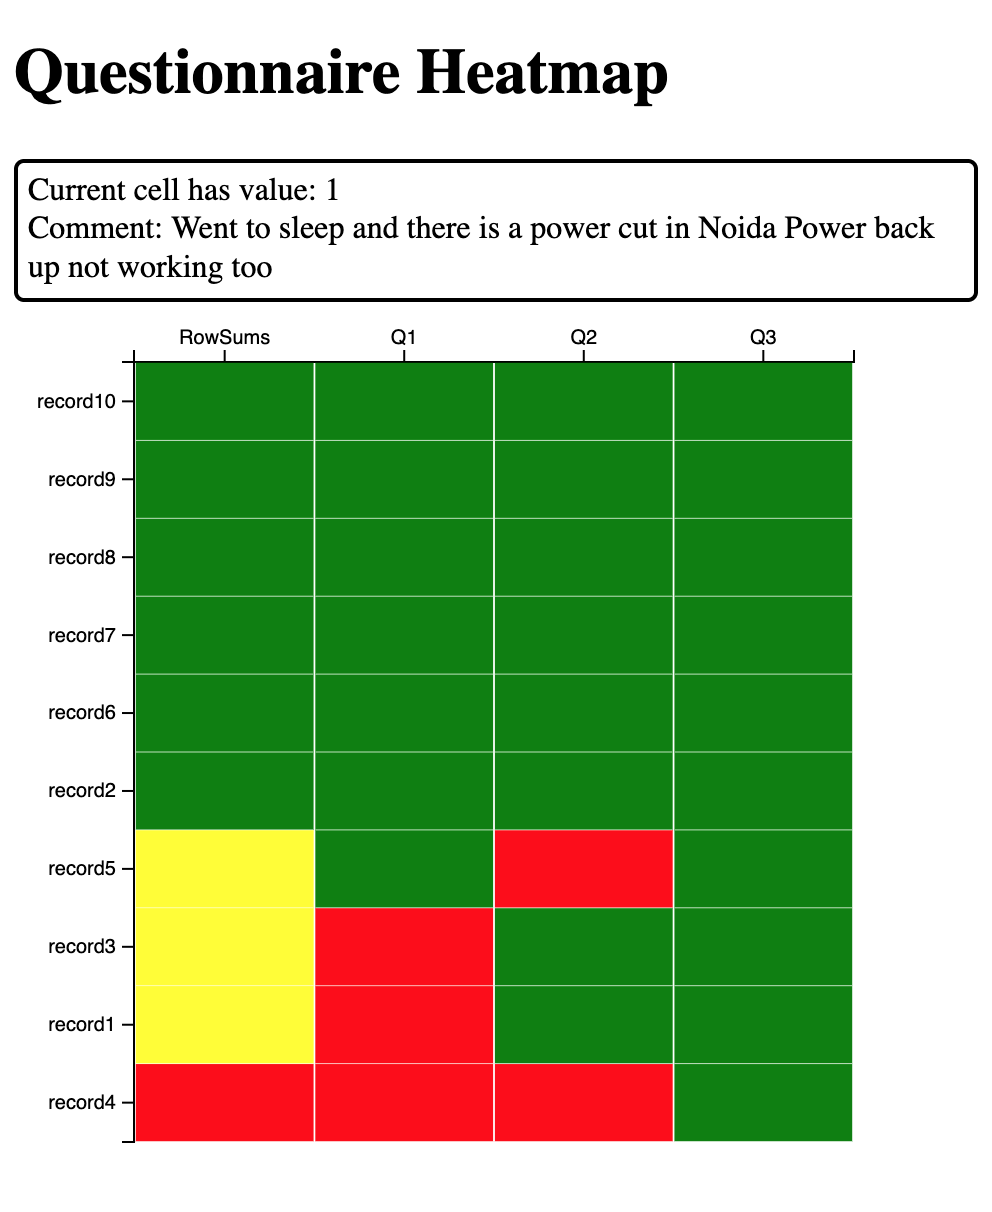
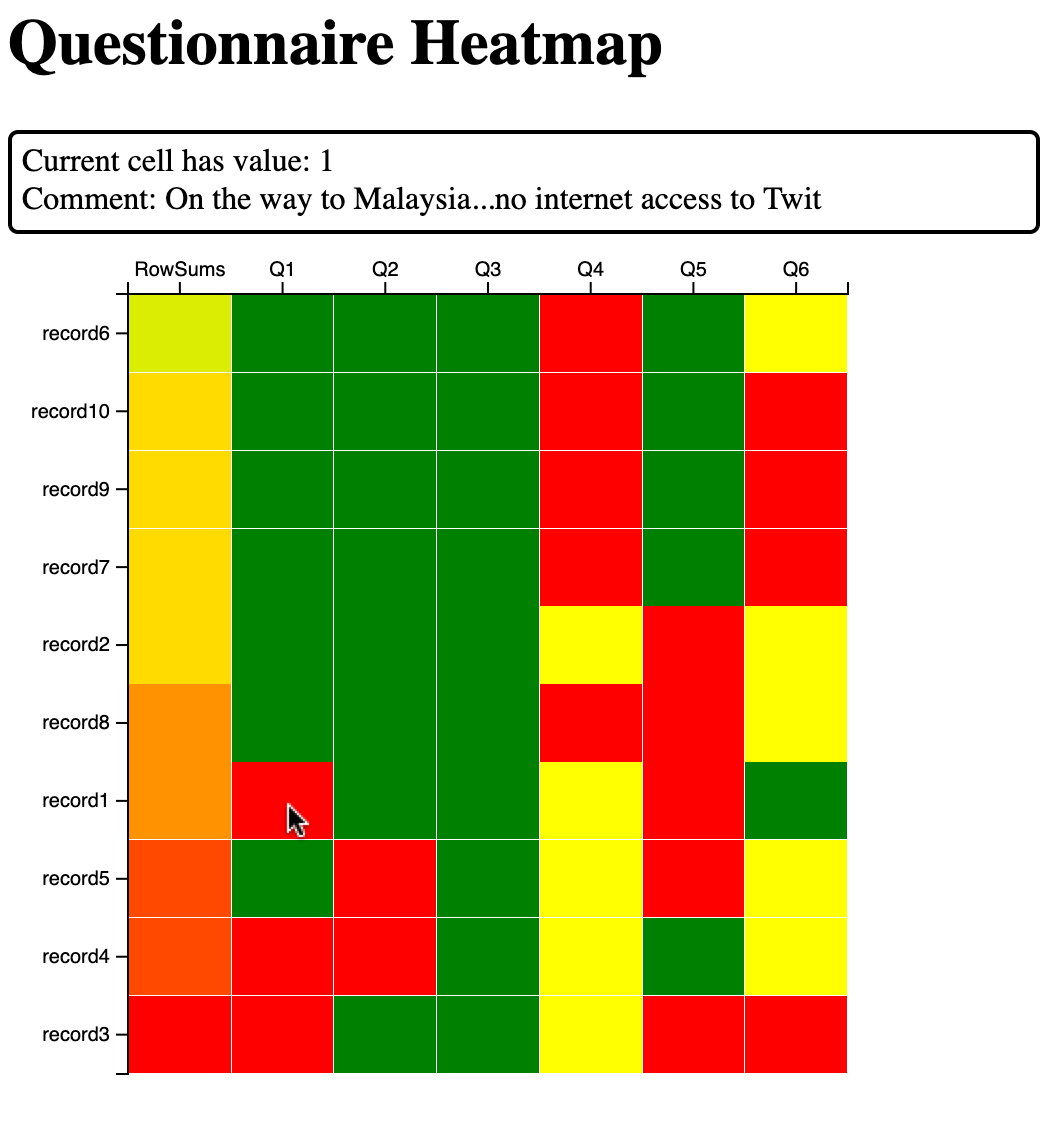
mod to complete v1.0 with corrected documentation and working tests

diff --git a/tests/output/index.html b/tests/output/index.html
@@ -119,7 +119,7 @@ function render(data){
 
 
 
-var data = [{"Name": "record4", "Question": "RowSums", "text": 1.0, "value": 1.0}, {"Name": "record1", "Question": "RowSums", "text": 0.5, "value": 0.5}, {"Name": "record3", "Question": "RowSums", "text": 0.5, "value": 0.5}, {"Name": "record5", "Question": "RowSums", "text": 0.5, "value": 0.5}, {"Name": "record2", "Question": "RowSums", "text": 0.0, "value": 0.0}, {"Name": "record6", "Question": "RowSums", "text": 0.0, "value": 0.0}, {"Name": "record7", "Question": "RowSums", "text": 0.0, "value": 0.0}, {"Name": "record8", "Question": "RowSums", "text": 0.0, "value": 0.0}, {"Name": "record9", "Question": "RowSums", "text": 0.0, "value": 0.0}, {"Name": "record10", "Question": "RowSums", "text": 0.0, "value": 0.0}, {"Name": "record4", "Question": "Q1", "text": "I`m going home now. Have you seen my new twitter design? Quite....heavenly isn`****?", "value": 1.0}, {"Name": "record1", "Question": "Q1", "text": "On the way to Malaysia...no internet access to Twit", "value": 1.0}, {"Name": "record3", "Question": "Q1", "text": "Went to sleep and there is a power cut in Noida Power back up not working too", "value": 1.0}, {"Name": "record5", "Question": "Q1", "text": "If it is any consolation I got my BMI tested hahaha it says I am obesed well so much for being unh...", "value": 0.0}, {"Name": "record2", "Question": "Q1", "text": "juss came backk from Berkeleyy ; omg its madd fun out there havent been out there in a minute . wha...", "value": 0.0}, {"Name": "record6", "Question": "Q1", "text": "Ahhh, I slept through the game. I`m gonna try my best to watch tomorrow though. I hope we play Arm...", "value": 0.0}, {"Name": "record7", "Question": "Q1", "text": "Born and raised in NYC and living in Texas for the past 10 years! I still miss NY", "value": 0.0}, {"Name": "record8", "Question": "Q1", "text": "just in case you wonder, we are really busy today and this coming with with adding tons of new blogs...", "value": 0.0}, {"Name": "record9", "Question": "Q1", "text": "i`m soooooo sleeeeepy!!! the last day o` school was today....sniffle....", "value": 0.0}, {"Name": "record10", "Question": "Q1", "text": "A little happy for the wine jeje ok it`sm my free time so who cares, jaja i love this day", "value": 0.0}, {"Name": "record4", "Question": "Q2", "text": "is back home now gonna miss every one", "value": 1.0}, {"Name": "record1", "Question": "Q2", "text": "i want to go to music tonight but i lost my voice.", "value": 0.0}, {"Name": "record3", "Question": "Q2", "text": "i`ve been sick for the past few days and thus, my hair looks wierd. if i didnt have a hat on it wo...", "value": 0.0}, {"Name": "record5", "Question": "Q2", "text": "Hes just not that into you", "value": 1.0}, {"Name": "record2", "Question": "Q2", "text": "Uh oh, I am sunburned", "value": 0.0}, {"Name": "record6", "Question": "Q2", "text": "Playing Ghost Online is really interesting. The new updates are Kirin pet and Metamorph for third jo...", "value": 0.0}, {"Name": "record7", "Question": "Q2", "text": "is cleaning the house for her family who is comming later today..", "value": 0.0}, {"Name": "record8", "Question": "Q2", "text": "gotta restart my computer .. I thought Win7 was supposed to put an end to the constant rebootiness", "value": 0.0}, {"Name": "record9", "Question": "Q2", "text": "SEe waT I Mean bOuT FoLL0w fRiiDaYs... It`S cALLed LoSe f0LloWeRs FridAy... smH", "value": 0.0}, {"Name": "record10", "Question": "Q2", "text": "the free fillin` app on my ipod is fun, im addicted", "value": 0.0}, {"Name": "record4", "Question": "Q3", "text": "what interview! leave me alone", "value": 0.0}, {"Name": "record1", "Question": "Q3", "text": "I`d have responded, if I were going", "value": 0.0}, {"Name": "record3", "Question": "Q3", "text": "my boss is bullying me...", "value": 0.0}, {"Name": "record5", "Question": "Q3", "text": "Sons of ****, why couldn`t they put them on the releases we already bought", "value": 0.0}, {"Name": "record2", "Question": "Q3", "text": "Sooo SAD I will miss you here in San Diego!!!", "value": 0.0}, {"Name": "record6", "Question": "Q3", "text": "2am feedings for the baby are fun when he is all smiles and coos", "value": 0.0}, {"Name": "record7", "Question": "Q3", "text": "Journey!? Wow... u just became cooler. hehe... (is that possible!?)", "value": 0.0}, {"Name": "record8", "Question": "Q3", "text": "as much as i love to be hopeful, i reckon the chances are minimal =P i`m never gonna get my cake an...", "value": 0.0}, {"Name": "record9", "Question": "Q3", "text": "I really really like the song Love Story by Taylor Swift", "value": 0.0}, {"Name": "record10", "Question": "Q3", "text": "My Sharpie is running DANGERously low on ink", "value": 0.0}]
+var data = [{"Name": "record3", "Question": "RowSums", "text": 1.0, "value": 1.0}, {"Name": "record4", "Question": "RowSums", "text": 0.8571428571428571, "value": 0.8571428571428571}, {"Name": "record5", "Question": "RowSums", "text": 0.8571428571428571, "value": 0.8571428571428571}, {"Name": "record1", "Question": "RowSums", "text": 0.7142857142857143, "value": 0.7142857142857143}, {"Name": "record8", "Question": "RowSums", "text": 0.7142857142857143, "value": 0.7142857142857143}, {"Name": "record2", "Question": "RowSums", "text": 0.5714285714285714, "value": 0.5714285714285714}, {"Name": "record7", "Question": "RowSums", "text": 0.5714285714285714, "value": 0.5714285714285714}, {"Name": "record9", "Question": "RowSums", "text": 0.5714285714285714, "value": 0.5714285714285714}, {"Name": "record10", "Question": "RowSums", "text": 0.5714285714285714, "value": 0.5714285714285714}, {"Name": "record6", "Question": "RowSums", "text": 0.42857142857142855, "value": 0.42857142857142855}, {"Name": "record3", "Question": "Q1", "text": "Went to sleep and there is a power cut in Noida Power back up not working too", "value": 1.0}, {"Name": "record4", "Question": "Q1", "text": "I`m going home now. Have you seen my new twitter design? Quite....heavenly isn`****?", "value": 1.0}, {"Name": "record5", "Question": "Q1", "text": "If it is any consolation I got my BMI tested hahaha it says I am obesed well so much for being unh...", "value": 0.0}, {"Name": "record1", "Question": "Q1", "text": "On the way to Malaysia...no internet access to Twit", "value": 1.0}, {"Name": "record8", "Question": "Q1", "text": "just in case you wonder, we are really busy today and this coming with with adding tons of new blogs...", "value": 0.0}, {"Name": "record2", "Question": "Q1", "text": "juss came backk from Berkeleyy ; omg its madd fun out there havent been out there in a minute . wha...", "value": 0.0}, {"Name": "record7", "Question": "Q1", "text": "Born and raised in NYC and living in Texas for the past 10 years! I still miss NY", "value": 0.0}, {"Name": "record9", "Question": "Q1", "text": "i`m soooooo sleeeeepy!!! the last day o` school was today....sniffle....", "value": 0.0}, {"Name": "record10", "Question": "Q1", "text": "A little happy for the wine jeje ok it`sm my free time so who cares, jaja i love this day", "value": 0.0}, {"Name": "record6", "Question": "Q1", "text": "Ahhh, I slept through the game. I`m gonna try my best to watch tomorrow though. I hope we play Arm...", "value": 0.0}, {"Name": "record3", "Question": "Q2", "text": "i`ve been sick for the past few days and thus, my hair looks wierd. if i didnt have a hat on it wo...", "value": 0.0}, {"Name": "record4", "Question": "Q2", "text": "is back home now gonna miss every one", "value": 1.0}, {"Name": "record5", "Question": "Q2", "text": "Hes just not that into you", "value": 1.0}, {"Name": "record1", "Question": "Q2", "text": "i want to go to music tonight but i lost my voice.", "value": 0.0}, {"Name": "record8", "Question": "Q2", "text": "gotta restart my computer .. I thought Win7 was supposed to put an end to the constant rebootiness", "value": 0.0}, {"Name": "record2", "Question": "Q2", "text": "Uh oh, I am sunburned", "value": 0.0}, {"Name": "record7", "Question": "Q2", "text": "is cleaning the house for her family who is comming later today..", "value": 0.0}, {"Name": "record9", "Question": "Q2", "text": "SEe waT I Mean bOuT FoLL0w fRiiDaYs... It`S cALLed LoSe f0LloWeRs FridAy... smH", "value": 0.0}, {"Name": "record10", "Question": "Q2", "text": "the free fillin` app on my ipod is fun, im addicted", "value": 0.0}, {"Name": "record6", "Question": "Q2", "text": "Playing Ghost Online is really interesting. The new updates are Kirin pet and Metamorph for third jo...", "value": 0.0}, {"Name": "record3", "Question": "Q3", "text": "my boss is bullying me...", "value": 0}, {"Name": "record4", "Question": "Q3", "text": "what interview! leave me alone", "value": 0}, {"Name": "record5", "Question": "Q3", "text": "Sons of ****, why couldn`t they put them on the releases we already bought", "value": 0}, {"Name": "record1", "Question": "Q3", "text": "I`d have responded, if I were going", "value": 0}, {"Name": "record8", "Question": "Q3", "text": "as much as i love to be hopeful, i reckon the chances are minimal =P i`m never gonna get my cake an...", "value": 0}, {"Name": "record2", "Question": "Q3", "text": "Sooo SAD I will miss you here in San Diego!!!", "value": 0}, {"Name": "record7", "Question": "Q3", "text": "Journey!? Wow... u just became cooler. hehe... (is that possible!?)", "value": 0}, {"Name": "record9", "Question": "Q3", "text": "I really really like the song Love Story by Taylor Swift", "value": 0}, {"Name": "record10", "Question": "Q3", "text": "My Sharpie is running DANGERously low on ink", "value": 0}, {"Name": "record6", "Question": "Q3", "text": "2am feedings for the baby are fun when he is all smiles and coos", "value": 0}, {"Name": "record3", "Question": "Q4", "text": 3, "value": 0.5}, {"Name": "record4", "Question": "Q4", "text": 4, "value": 0.5}, {"Name": "record5", "Question": "Q4", "text": 2, "value": 0.5}, {"Name": "record1", "Question": "Q4", "text": 1, "value": 0.5}, {"Name": "record8", "Question": "Q4", "text": 7, "value": 1.0}, {"Name": "record2", "Question": "Q4", "text": 3, "value": 0.5}, {"Name": "record7", "Question": "Q4", "text": 9, "value": 1.0}, {"Name": "record9", "Question": "Q4", "text": 9, "value": 1.0}, {"Name": "record10", "Question": "Q4", "text": 10, "value": 1.0}, {"Name": "record6", "Question": "Q4", "text": 7, "value": 1.0}, {"Name": "record3", "Question": "Q5", "text": 1, "value": 1.0}, {"Name": "record4", "Question": "Q5", "text": 0, "value": 0.0}, {"Name": "record5", "Question": "Q5", "text": 1, "value": 1.0}, {"Name": "record1", "Question": "Q5", "text": 1, "value": 1.0}, {"Name": "record8", "Question": "Q5", "text": 1, "value": 1.0}, {"Name": "record2", "Question": "Q5", "text": 1, "value": 1.0}, {"Name": "record7", "Question": "Q5", "text": 0, "value": 0.0}, {"Name": "record9", "Question": "Q5", "text": 0, "value": 0.0}, {"Name": "record10", "Question": "Q5", "text": 0, "value": 0.0}, {"Name": "record6", "Question": "Q5", "text": 0, "value": 0.0}, {"Name": "record3", "Question": "Q6", "text": "Somewhat agree", "value": 1.0}, {"Name": "record4", "Question": "Q6", "text": "Neutral", "value": 0.5}, {"Name": "record5", "Question": "Q6", "text": "Somewhat disagree", "value": 0.5}, {"Name": "record1", "Question": "Q6", "text": "Strongly Disagree", "value": 0.0}, {"Name": "record8", "Question": "Q6", "text": "Neutral", "value": 0.5}, {"Name": "record2", "Question": "Q6", "text": "Somewhat disagree", "value": 0.5}, {"Name": "record7", "Question": "Q6", "text": "Somewhat agree", "value": 1.0}, {"Name": "record9", "Question": "Q6", "text": "Somewhat agree", "value": 1.0}, {"Name": "record10", "Question": "Q6", "text": "Strongly Agree", "value": 1.0}, {"Name": "record6", "Question": "Q6", "text": "Neutral", "value": 0.5}]
 
 
 

diff --git a/heatmap/heatmap.py b/heatmap/heatmap.py
@@ -11,6 +11,7 @@ __version__ = "0.1.0"
 __license__ = "MIT"
 
 from heatmap import models
+from heatmap.models import Config
 
 import pandas as pd
 import numpy as np
@@ -43,9 +44,11 @@ class HeatMapFormat:
         category's numeric value with colors
         :return None
         """
-        if type(config)==models.Config and type(mapping)==models.ModelMapping:
+        if type(config).__name__=='Config' and type(mapping).__name__=='ModelMapping':
             self.config = config
             self.mapping = mapping
+        else:
+            raise TypeError
 
     #config attrs
     output_types = ['xlsx', 'html']

diff --git a/heatmap/main.py b/heatmap/main.py
@@ -88,7 +88,7 @@ def main(args):
     config = models.Config(filepath='./heatmap/config_settings.json')
     mapping = models.ModelMapping(filepath='./heatmap/config_mapping.yml')
     test, test = config.load(), mapping.load()
-    hmformat = HeatMapFormat(config, mapping)
+    hmformat = HeatMapFormat(config=config, mapping=mapping)
     match args.output_type:
         case 'xlsx':
             output_file = output_dir / 'file.xlsx'

diff --git a/heatmap/models.py b/heatmap/models.py
@@ -1,6 +1,6 @@
 #!/usr/bin/env python3
 """
-All model definitions to be applied to questions in survey.
+All model definitions to be applied to questions in survey through `./heatmap/config_mapping.yml`
 
 Column-model mapping requirements must adhere to `config_settings.json`,to include:
 * 'status_category' <any except missing> for t-shirt size status, or

diff --git a/README.md b/README.md
@@ -10,8 +10,17 @@ Create an interactive heatmap from tabular data for reporting.  Typical usage is
 Ensure the following:
 
 * survey data is in the correct file format
-* TODO: config file
-* TODO: ques-model mapping
+  - each row (record) and question (column)
+  - for example, see: `./tests/data/survey.csv`
+* modify config settings file: `heatmap/config_settings.json` (default in `./tests/data/`)
+  - this determines the output formatting
+  - there are a default of five categories: two for null values and three for typical stop-light (red, amber, green) formatting
+  - each top-level key is a category that will be assigned the associated numeric value and cell formatting
+  - if the data type of a column is numeric, then it will be chosen by the numeric value, not by the category
+* modify config model mapping file: `heatmap/config_mapping.yml` (default in `./tests/data/`)
+  - this maps questions / columns to models (`./heatmap/models.py`) that transform them to categories
+  - several generic models exist, but custom class models may need to be defined to reach expected output display
+* custom models, if applicable, defined in `./heatmap/models.py`
 
 Run this: (remove optional --arg names)
 ```
@@ -25,13 +34,21 @@ python --input_file ./tests/data/survey.csv --output_dir ./tests/output/ --outpu
 
 ## Tests
 
-Open the d3 template (`heatmap/templates/index.html`) in the browser.  If the the data does not load, then you may have a CORS issue with the browser.  Verify this through the console.  Steps to fix the issue for FireFox, [here](https://stackoverflow.com/questions/51081754/cross-origin-request-blocked-when-loading-local-file).
+Testing is performed using pytest.
+
+```shell
+pytest --collect-only
+pytest
+```
+
+To view created index file, open the d3 template (`heatmap/templates/index.html`) in the browser.  If the the data does not load, then you may have a CORS issue with the browser.  Verify this through the console.  Steps to fix the issue for FireFox, [here](https://stackoverflow.com/questions/51081754/cross-origin-request-blocked-when-loading-local-file).
+
 
 
 ## ToDo
 
-* config file for settings and model mapping
-```config.yml
+* additional options for model mapping
+```config_mapping.yml
 setting:
   option1: feature
   index_columns: [1,2,3]
@@ -46,18 +63,7 @@ questions:
   summary1: model5
   summary2: model6
 ```
-* q* should contain:
-  - input data type
-  - model mapping
-  - color mapping
-
-* ~~create models.py for generic model classes~~
-* ~~models_mapped.py for implemented models subclassed from models.py~~
-* ~~provide models for different question response types~~
-  - ~~numeric~~ q4
-  - ~~binary~~ q5
-  - ~~likert, ordered categories~~ q6
-  - ~~unstructured text~~ q1,q2,q3
 * frontend functions
-  - sort
-  - export table to excel
+  - improve color configuration, [ref](https://observablehq.com/@lemonnish/color-scale-using-multiple-colors)
+  - sort columns, [ref](https://github.com/michael-oppermann/d3-learning-material/tree/main/d3-case-studies/d3-case-study_measles-and-vaccines)
+  - export table to excel, [ref](https://github.com/gitbrent/xlsx-js-style) [ref](https://github.com/sharonchoong/svg-exportJS)
